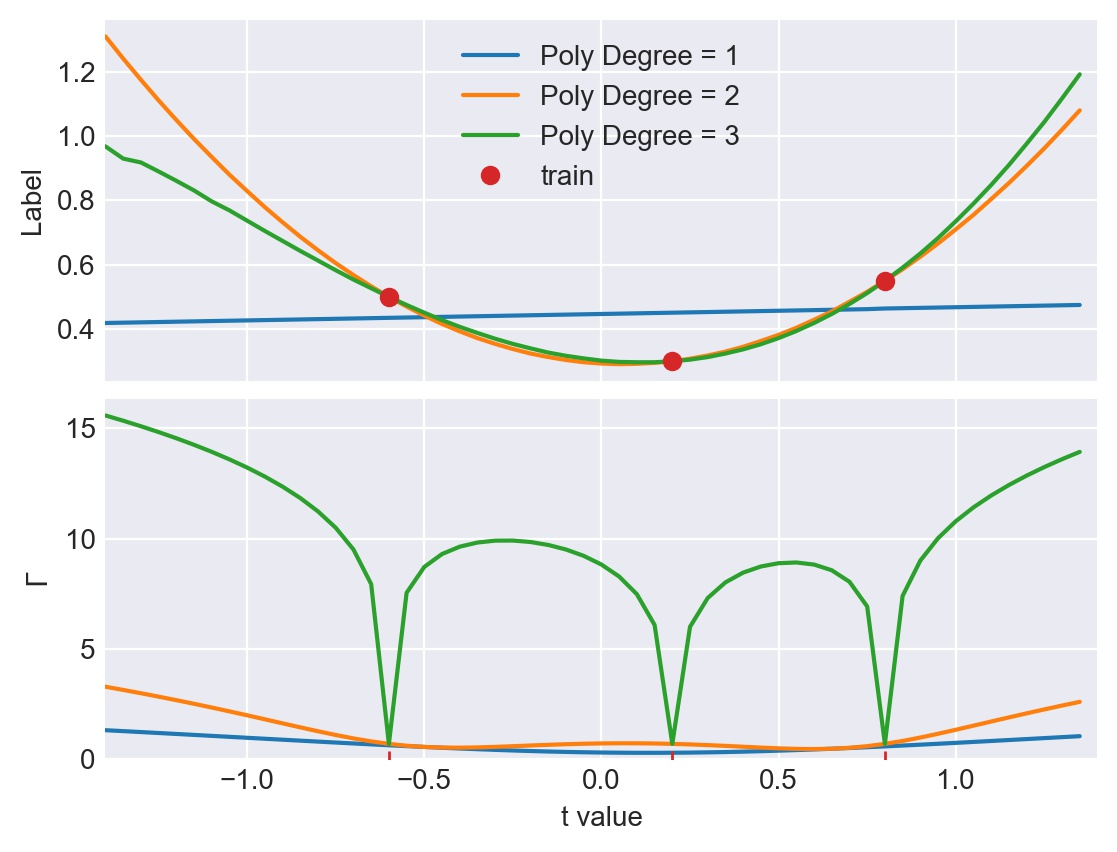
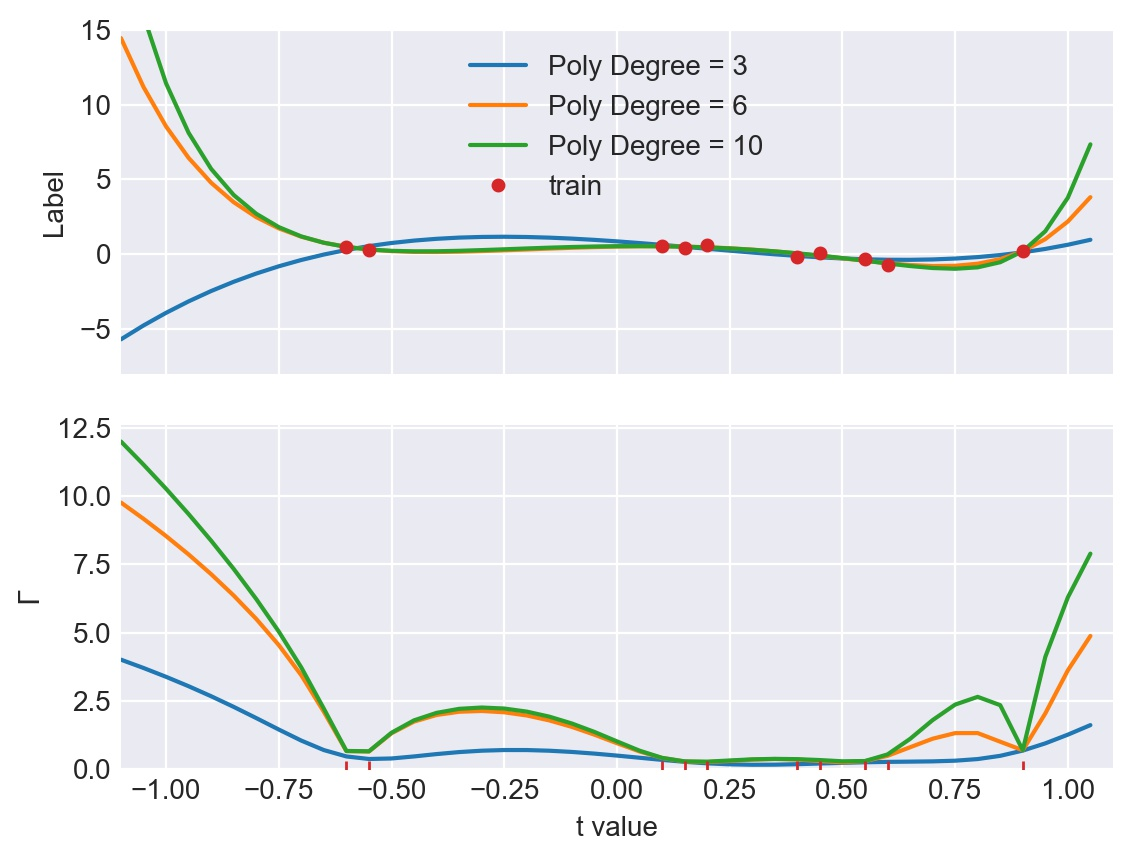
Camera ready candidate

diff --git a/main_pnml_regression.tex b/main_pnml_regression.tex
@@ -400,8 +400,9 @@ If the test sample $x$ lies mostly in the subspace spanned by the eigenvectors w
 % Simulation
 % -----------
 \section{Simulation} \label{sec:simulation}
-In this section we present some simulations that demonstrate the results above. We chose the problem of fitting a polynomial to data, which is a special case of linear regression.
-The simulation show prediction and generalization capabilities in a variety of polynomial degrees and regularization factors.
+In this section we present some simulations that demonstrate the results above. 
+We chose the problem of fitting a polynomial to data, which is a special case of linear regression.
+The simulations show prediction and generalization capabilities in a variety of regularization factors and polynomial degrees.
 
 In the first experiment we generated 3 random points, $t_0,t_1,t_2$, uniformly in the interval $[-1, 1]$. These points are the training set and are shown in Figure \ref{fig:least_squares_with_reg} (top) as red dots. 
 The relation between $y$ and $t$ is given by a polynomial of degree two.
@@ -430,22 +431,22 @@ For all regularization terms, the regret increases as moving away from the train
 \end{figure}
 
 Next, we simulate the case of fitting polynomials with different degrees. 
-Again, we generated 3 random points in the interval $[-1, 1]$.
+Again, we generated 10 random points in the interval $[-1, 1]$.
 The matrix $X$ is now:
 \begin{equation}
 X = 
 \begin{bmatrix}
-1 & 1 & 1 \\
-t_0 & t_1 & t_2 \\
-\vdots \\
-t_0^{\textit{Poly Deg}} & t_1^{\textit{Poly Deg}} & t_2^{\textit{Poly Deg}} 
+1 & 1 & 1 & \hdots & 1\\
+t_0 & t_1 & t_2 & \hdots & t_{9}\\
+\vdots &  \vdots &       & \vdots  \\
+t_0^{\textit{Poly Deg}} & t_1^{\textit{Poly Deg}} & t_2^{\textit{Poly Deg}}  & \hdots & t_{9}^{\textit{Poly Deg}}
 \end{bmatrix}.
 \end{equation}
 Figure \ref{fig:least_squares_with_poly} (top) shows the predicted label for every $t$ value in $[-1,1]$ for the different polynomial degrees. 
-To avoid singularities we used the regularized version with $\lambda=10^{-6}$. 
+To avoid singularities we used the regularized version with $\lambda=10^{-4}$. 
 The training set is shown by red dots in the figure. 
-Note that for a polynomial of degree three, the number of parameters is greater than the size of the training set. 
-Nevertheless, the prediction accuracy near the training samples is similar to that of a degree two polynomial.
+Note that for a polynomial of degree ten, the number of parameters is greater than the size of the training set. 
+Nevertheless, the prediction accuracy near the training samples is similar to that of a degree three polynomial.
 Figure \ref{fig:least_squares_with_poly} (bottom) shows the regret (or learnability) of the three pNML learners corresponding to model classes of polynomials with the various degrees. 
 All the learners have regret values that are small near the training samples and large as $t$ drifts away from these samples.
 
